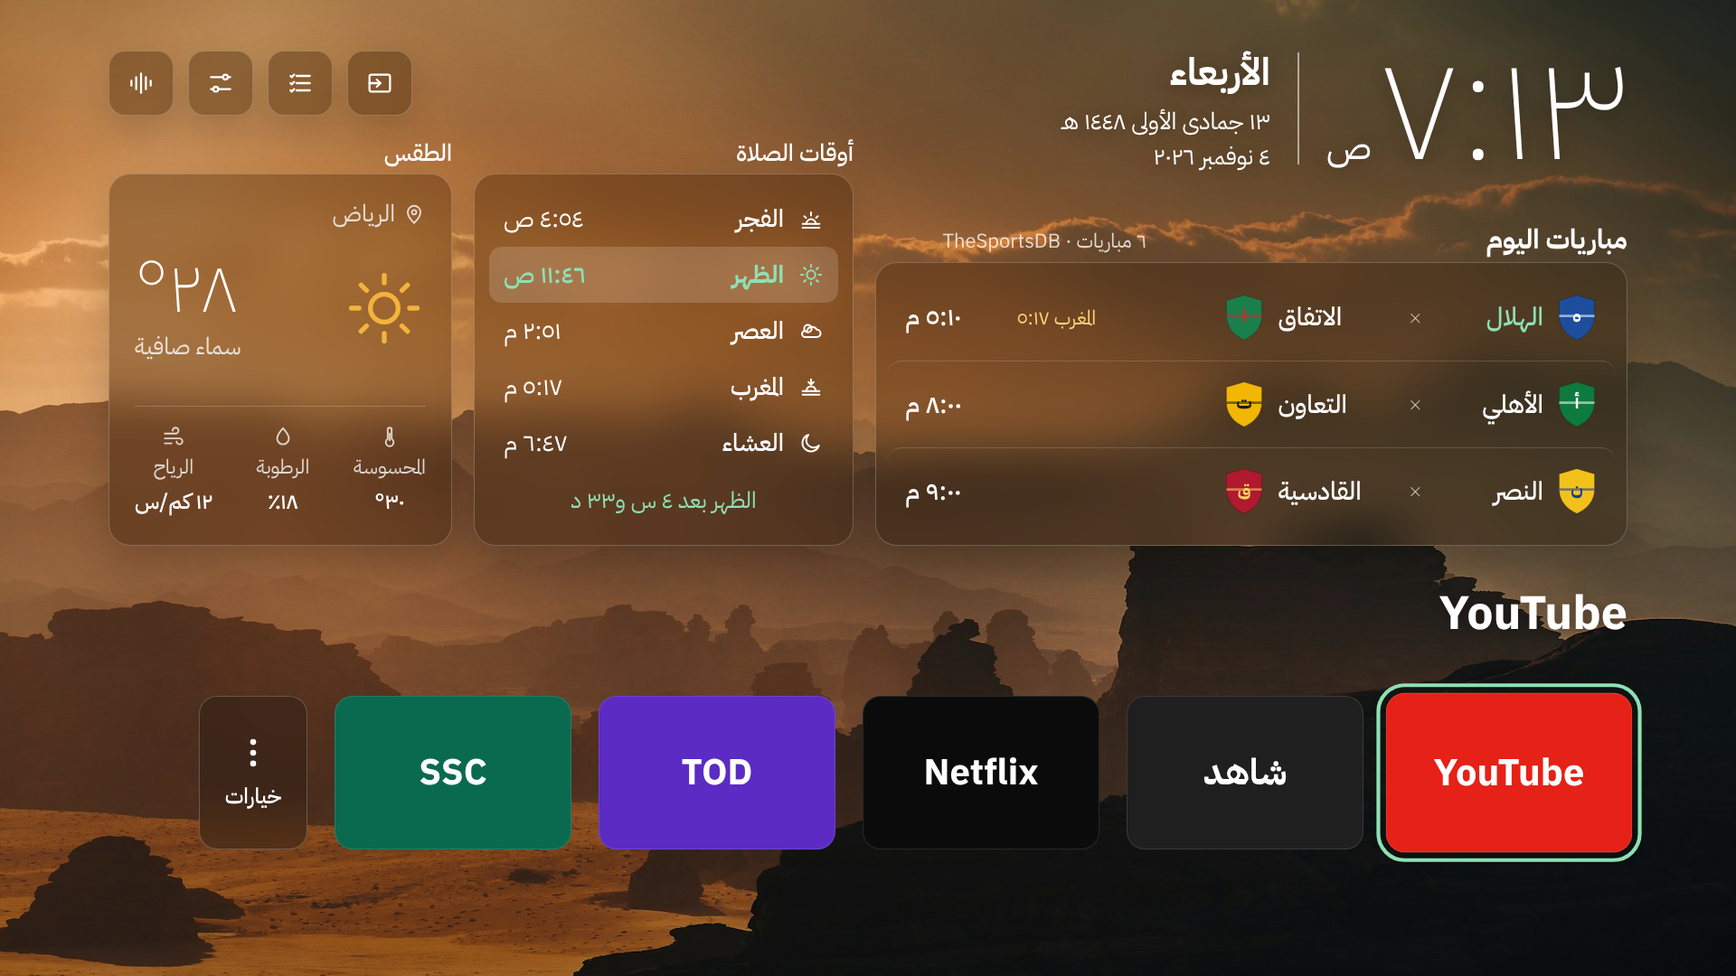
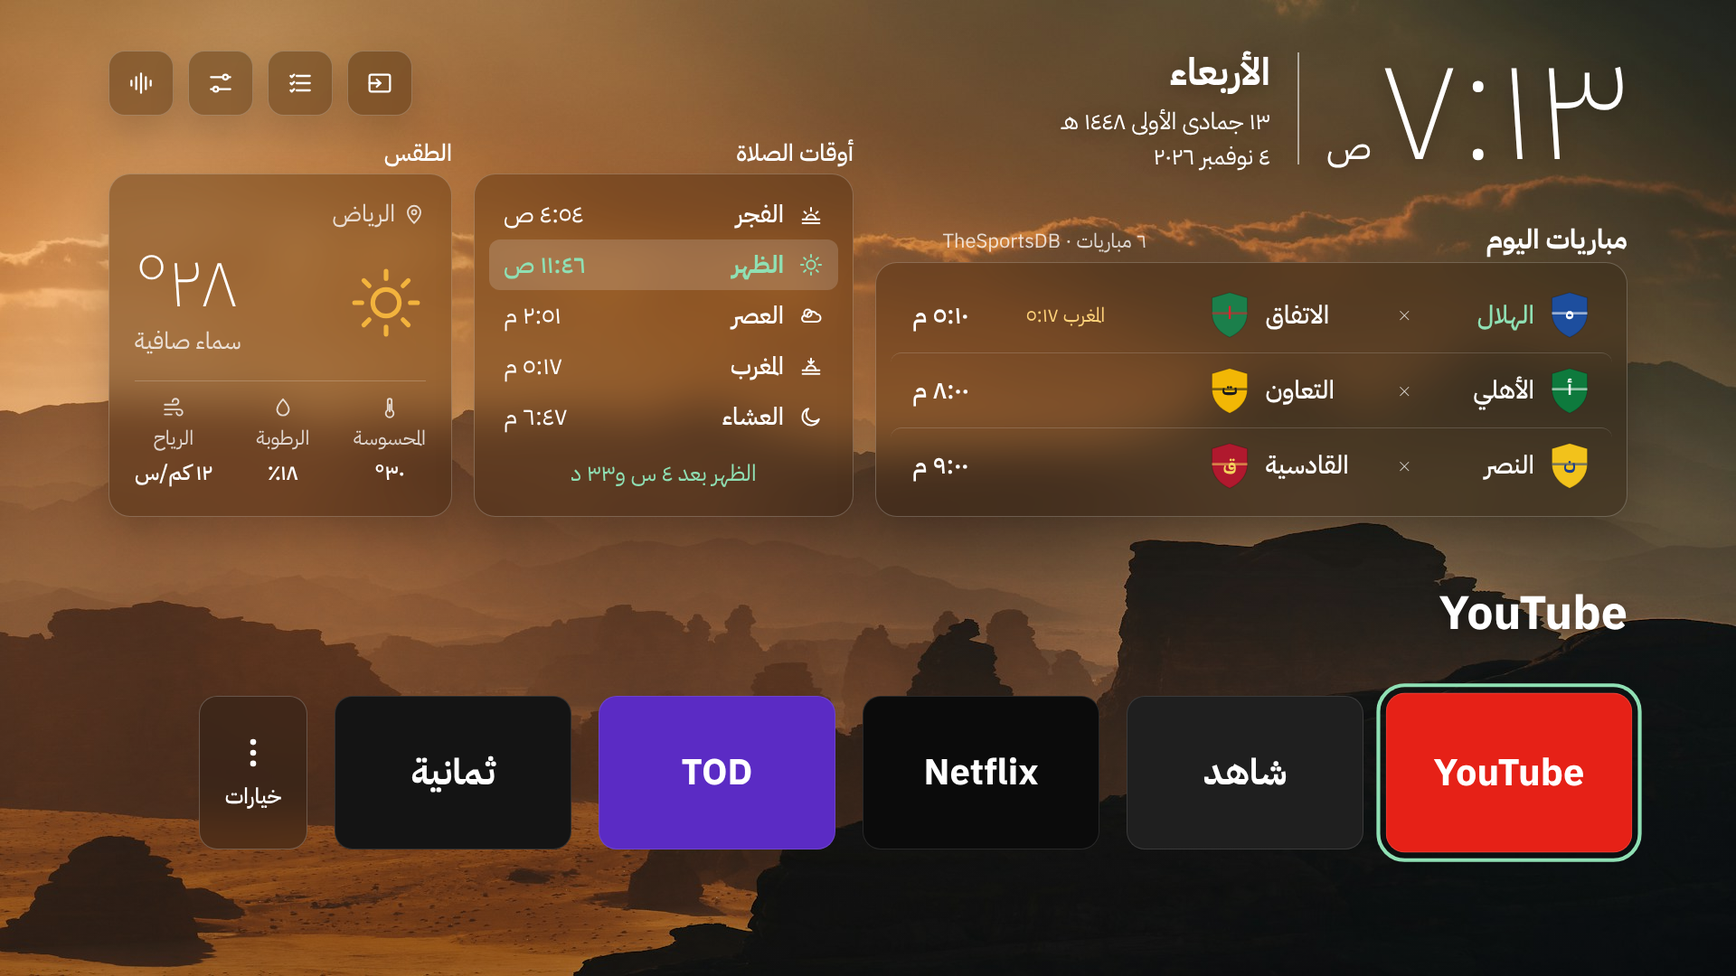
Proposals: spacing pass (text 16+ px inside boxes, gaps on an 8 px scale, room for titles), bar spec updated

diff --git a/notes/proposals/proto.html b/notes/proposals/proto.html
@@ -151,11 +151,11 @@ S.packs=()=>{
  const stars=Array.from({length:70},(_,i)=>`<circle cx="${(i*73)%400}" cy="${(i*37)%220}" r="${i%7?0.8:1.6}" fill="#fff" opacity="${.4+(i%5)/8}"/>`).join('');
  const sky=`<svg viewBox="0 0 400 220" style="position:absolute;inset:0;width:100%;height:100%" preserveAspectRatio="xMidYMax slice"><path d="M0 220V150h30v-30h20v30h25V95h18v-20h6v20h18v55h20v-40h30v40h22V60l8-14 8 14v90h24v-35h34v35h20v-60h26v60h30v-30h28v30h33v70z" fill="#5d6b78" opacity=".85"/></svg>`;
  const art=`<div style="position:absolute;inset:22px 70px;border:10px solid #b08a4a;box-shadow:inset 0 0 0 3px #6b4e22;background:linear-gradient(160deg,#6f8f6a,#d8c48a 50%,#9a6a3c);"></div>`;
- const w=(1680-2*30)/3,h=350;
+ const w=(1680-2*24)/3,h=350;
  const card=(p,i)=>{const fo=i==2,col=i%3,row=Math.floor(i/3);
-  return `<div class="abs" style="right:${120+col*(w+30)}px;top:${196+row*(h+26)}px;width:${w}px;height:${h}px;border-radius:22px;background:#fff;border:${fo?'3px solid var(--green)':'1.5px solid var(--line)'};overflow:hidden;${fo?'background:var(--tint)':''}">
-   <div style="position:relative;height:190px;background:${p.bg} center/cover">${p.space?`<svg viewBox="0 0 400 220" style="position:absolute;inset:0;width:100%;height:100%">${stars}<circle cx="300" cy="150" r="46" fill="#c46b3a"/><circle cx="300" cy="150" r="46" fill="url(#g)"/><defs><radialGradient id="g" cx=".35" cy=".35"><stop offset="0" stop-color="#ffd9a0" stop-opacity=".7"/><stop offset="1" stop-color="#000" stop-opacity=".45"/></radialGradient></defs></svg>`:''}${p.city?sky:''}${p.art?art:''}</div>
-   <div style="padding:18px 26px;display:flex;align-items:flex-start;gap:16px">
+  return `<div class="abs" style="right:${120+col*(w+24)}px;top:${196+row*(h+24)}px;width:${w}px;height:${h}px;border-radius:22px;background:#fff;border:${fo?'3px solid var(--green)':'1.5px solid var(--line)'};overflow:hidden;${fo?'background:var(--tint)':''}">
+   <div style="position:relative;height:176px;background:${p.bg} center/cover">${p.space?`<svg viewBox="0 0 400 220" style="position:absolute;inset:0;width:100%;height:100%">${stars}<circle cx="300" cy="150" r="46" fill="#c46b3a"/><circle cx="300" cy="150" r="46" fill="url(#g)"/><defs><radialGradient id="g" cx=".35" cy=".35"><stop offset="0" stop-color="#ffd9a0" stop-opacity=".7"/><stop offset="1" stop-color="#000" stop-opacity=".45"/></radialGradient></defs></svg>`:''}${p.city?sky:''}${p.art?art:''}</div>
+   <div style="padding:20px 32px 24px;display:flex;align-items:flex-start;gap:16px">
     ${p.st=='on'?tri():''}
     <div style="flex:1"><div style="font:34px TM">${p.n}</div><div style="font:24px TR;color:var(--sub);margin-top:2px">${p.c}</div><div style="font:22px TR;color:var(--mute)">${p.src}</div></div>
     ${p.st=='on'?`<div style="font:28px TM;color:var(--green)">مفعّل</div>`:`<div style="display:flex;align-items:center;gap:8px;font:28px TM;color:${fo?'var(--green)':'var(--sub)'}">${ic('down',30)}نزّل</div>`}
@@ -229,8 +229,8 @@ const H2=(light,o={})=>{const g=G(light);const W='color:'+g.ink;
   {h:'النصر',a:'القادسية',t:'٩:٠٠ م'},
   {h:'الاتحاد',a:'الشباب',t:'٩:٠٠ م'},
   {h:'ضمك',a:'الخليج',t:'٩:٣٠ م'}];
- const cw=300,gap=20;
- const card=(m,i)=>`<div style="${glass(g,`top:0;right:${i*(cw+gap)}px;width:${cw}px;height:212px;padding:16px 20px;display:flex;flex-direction:column;justify-content:space-between;${o.peek&&i==0?'border:3px solid #8FE0B4;background:rgba(28,22,18,.5)':''}`)}">
+ const cw=300,gap=24;
+ const card=(m,i)=>`<div style="${glass(g,`top:0;right:${i*(cw+gap)}px;width:${cw}px;height:212px;padding:16px 24px;display:flex;flex-direction:column;justify-content:space-between;${o.peek&&i==0?'border:3px solid #8FE0B4;background:rgba(28,22,18,.5)':''}`)}">
    <div style="display:flex;justify-content:space-between;font:22px TR;color:${g.sub}"><span>دوري روشن</span><span>الجولة ١٣</span></div>
    <div style="display:flex;align-items:center;justify-content:space-between">
     <div style="display:flex;flex-direction:column;align-items:center;gap:6px;width:110px">${crest(m.h,56)}<span style="font:24px TM;color:${m.mine?g.nx:g.ink};white-space:nowrap">${m.h}</span></div>
@@ -248,11 +248,11 @@ const H2=(light,o={})=>{const g=G(light);const W='color:'+g.ink;
  <div class="abs" style="left:120px;top:168px;width:400px;font:26px TM;${light?'color:#fff;text-shadow:0 1px 10px rgba(0,0,0,.3)':W}">الطقس</div>
  <div style="${glass(g,'left:120px;top:210px;width:400px;height:356px;padding:24px 28px')}">
   <div style="display:flex;align-items:center;gap:8px;font:26px TR;color:${g.sub}">${ic('pin',26)}الرياض</div>
-  <div style="display:flex;align-items:center;justify-content:space-between;margin-top:14px">${ic('noon',96,'color:#F2B33D;stroke-width:1.4')}<div style="text-align:left"><div style="font:84px TL;line-height:1;${W}">٢٨°</div><div style="font:26px TR;color:${g.sub};margin-top:6px">سماء صافية</div></div></div>
-  <div style="display:flex;justify-content:space-between;margin-top:32px;padding-top:18px;border-top:1px solid ${light?'var(--line)':'rgba(255,255,255,.2)'};font:22px TR;color:${g.sub}">
+  <div style="display:flex;align-items:center;justify-content:space-between;margin-top:14px">${ic('noon',80,'color:#F2B33D;stroke-width:1.4')}<div style="text-align:left"><div style="font:84px TL;line-height:1;${W}">٢٨°</div><div style="font:26px TR;color:${g.sub};margin-top:6px">سماء صافية</div></div></div>
+  <div style="display:flex;justify-content:space-between;margin-top:16px;padding-top:16px;border-top:1px solid ${light?'var(--line)':'rgba(255,255,255,.2)'};font:22px TR;color:${g.sub}">
    ${[['therm','المحسوسة','٣٠°'],['drop','الرطوبة','١٨٪'],['wind','الرياح','١٢ كم/س']].map(x=>`<div style="display:flex;flex-direction:column;align-items:center;gap:4px">${ic(x[0],26)}<span>${x[1]}</span><b style="font:24px TM;${W}">${x[2]}</b></div>`).join('')}</div></div>
  <div class="abs" style="left:544px;width:440px;top:168px;font:26px TM;${light?'color:#fff;text-shadow:0 1px 10px rgba(0,0,0,.3)':W}">أوقات الصلاة</div>
- <div style="${glass(g,'left:544px;top:210px;width:440px;height:356px;padding:16px 16px')}">
+ <div style="${glass(g,'left:544px;top:210px;width:440px;height:356px;padding:16px')}">
   ${prs.map((p,i)=>`<div style="display:flex;align-items:center;gap:16px;height:54px;padding:0 16px;border-radius:14px;${i==1?`background:${g.band};${light?'box-shadow:inset 0 0 0 2px var(--green);':''}`:''}color:${i==1?g.nx:g.ink}">${ic(p[0],28)}<span style="flex:1;font:27px ${i==1?'TD':'TM'}">${p[1]}</span><span style="font:27px ${i==1?'TM':'TR'}">${p[2]}</span></div>`).join('')}
   <div style="text-align:center;font:25px TR;color:${g.nx};margin-top:12px">الظهر بعد ٤ س و٣٣ د</div></div>
  <div class="abs" style="right:120px;top:${o.peek?640:600}px;font:32px TD;${light?'color:var(--ink)':W}">مباريات اليوم</div>
@@ -282,22 +282,22 @@ const H3=(focus,bar)=>{const g=G(false);const W='color:#fff';
   <div><div style="font:42px TD">الأربعاء</div><div style="font:26px TR;margin-top:4px">١٣ جمادى الأولى ١٤٤٨ هـ</div><div style="font:26px TR">٤ نوفمبر ٢٠٢٦</div></div></div>
  <div class="abs" style="left:120px;top:56px;display:flex;gap:16px;direction:ltr">${['input','tasks','control','listen'].reverse().map(k=>`<div style="${glass(g,'position:relative;width:72px;height:72px;border-radius:18px;display:flex;align-items:center;justify-content:center')}">${ic(k,32,'color:#fff')}</div>`).join('')}</div>
  <div class="abs" style="left:120px;top:150px;width:380px;font:26px TM;${W}">الطقس</div>
- <div style="${glass(g,'left:120px;top:192px;width:380px;height:412px;padding:24px 28px')}">
+ <div style="${glass(g,'left:120px;top:192px;width:380px;height:380px;padding:24px 28px')}">
   <div style="display:flex;align-items:center;gap:8px;font:26px TR;color:${g.sub}">${ic('pin',26)}الرياض</div>
-  <div style="display:flex;align-items:center;justify-content:space-between;margin-top:22px">${ic('noon',92,'color:#F2B33D;stroke-width:1.4')}<div style="text-align:left"><div style="font:80px TL;line-height:1;${W}">٢٨°</div><div style="font:26px TR;color:${g.sub};margin-top:6px">سماء صافية</div></div></div>
-  <div style="display:flex;justify-content:space-between;margin-top:46px;padding-top:20px;border-top:1px solid rgba(255,255,255,.2);font:22px TR;color:${g.sub}">
+  <div style="display:flex;align-items:center;justify-content:space-between;margin-top:16px">${ic('noon',88,'color:#F2B33D;stroke-width:1.4')}<div style="text-align:left"><div style="font:80px TL;line-height:1;${W}">٢٨°</div><div style="font:26px TR;color:${g.sub};margin-top:6px">سماء صافية</div></div></div>
+  <div style="display:flex;justify-content:space-between;margin-top:24px;padding-top:16px;border-top:1px solid rgba(255,255,255,.2);font:22px TR;color:${g.sub}">
    ${[['therm','المحسوسة','٣٠°'],['drop','الرطوبة','١٨٪'],['wind','الرياح','١٢ كم/س']].map(x=>`<div style="display:flex;flex-direction:column;align-items:center;gap:4px">${ic(x[0],26)}<span>${x[1]}</span><b style="font:24px TM;${W}">${x[2]}</b></div>`).join('')}</div></div>
  <div class="abs" style="left:524px;width:420px;top:150px;font:26px TM;${W}">أوقات الصلاة</div>
- <div style="${glass(g,'left:524px;top:192px;width:420px;height:412px;padding:18px 16px')}">
-  ${prs.map((p,i)=>`<div style="display:flex;align-items:center;gap:16px;height:62px;padding:0 16px;border-radius:14px;${i==1?`background:${g.band};`:''}color:${i==1?g.nx:'#fff'}">${ic(p[0],28)}<span style="flex:1;font:27px ${i==1?'TD':'TM'}">${p[1]}</span><span style="font:27px ${i==1?'TM':'TR'}">${p[2]}</span></div>`).join('')}
-  <div style="text-align:center;font:25px TR;color:${g.nx};margin-top:14px">الظهر بعد ٤ س و٣٣ د</div></div>
+ <div style="${glass(g,'left:524px;top:192px;width:420px;height:380px;padding:16px')}">
+  ${prs.map((p,i)=>`<div style="display:flex;align-items:center;gap:16px;height:56px;padding:0 16px;border-radius:12px;${i==1?`background:${g.band};`:''}color:${i==1?g.nx:'#fff'}">${ic(p[0],28)}<span style="flex:1;font:27px ${i==1?'TD':'TM'}">${p[1]}</span><span style="font:27px ${i==1?'TM':'TR'}">${p[2]}</span></div>`).join('')}
+  <div style="text-align:center;font:25px TR;color:${g.nx};margin-top:16px">الظهر بعد ٤ س و٣٣ د</div></div>
  <div class="abs" style="right:120px;top:242px;font:30px TD;${W}">مباريات اليوم</div>
  <div class="abs" style="left:968px;width:300px;top:250px;font:22px TR;color:${g.sub}">٦ مباريات · TheSportsDB</div>
- <div style="${glass(g,'right:120px;top:290px;width:832px;height:314px;padding:12px')}">
-  ${games.map((m,i)=>`<div style="display:flex;align-items:center;gap:14px;height:96px;padding:0 20px;border-radius:16px;${i==0&&focus=='w'?'background:rgba(255,255,255,.1);box-shadow:inset 0 0 0 3px #8FE0B4;':''}${i?'border-top:1px solid rgba(255,255,255,.16);':''}">
+ <div style="${glass(g,'right:120px;top:290px;width:832px;height:282px;padding:16px')}">
+  ${games.map((m,i)=>`<div style="display:flex;align-items:center;gap:16px;height:83px;padding:0 24px;border-radius:12px;${i==0&&focus=='w'?'background:rgba(255,255,255,.1);box-shadow:inset 0 0 0 3px #8FE0B4;':''}${i?'border-top:1px solid rgba(255,255,255,.16);':''}">
    ${crest(m.h,46)}<span style="width:120px;font:28px TM;color:${m.mine?g.nx:'#fff'}">${m.h}</span><span style="font:26px TL;color:${g.sub}">×</span><span style="width:130px;font:28px TM;${W};text-align:left">${m.a}</span>${crest(m.a,46)}
    <span style="flex:1;text-align:left;font:22px TR;color:#FFD27A">${m.n||''}</span><span style="width:110px;text-align:left;font:28px TM;${W}">${m.t}</span></div>`).join('')}</div>
- ${bar?BAR(804,focus=='a'?0:-1,false):SHELF(770,focus=='a'?0:-1)}`;};
+ ${bar?BAR(808,focus=='a'?0:-1,false):SHELF(770,focus=='a'?0:-1)}`;};
 S.favA=()=>H3('w');
 S.favBw=()=>H2(false,{peek:1});
 S.favBa=()=>H3('a');
@@ -309,15 +309,15 @@ const BAR=(trayTop,fo,light)=>{
  const tray=light?'background:rgba(255,255,255,.72);border:1px solid rgba(255,255,255,.85);box-shadow:0 20px 50px rgba(40,36,24,.12),inset 0 1px 0 #fff'
    :'background:rgba(255,255,255,.14);border:1px solid rgba(255,255,255,.28);box-shadow:0 20px 50px rgba(0,0,0,.18),inset 0 1px 0 rgba(255,255,255,.35)';
  const ring=light?'#1B8354':'#8FE0B4';
- const x=i=>1800-28-296-i*(296+36);   // tile i's left edge, RTL: the first app on the right
- return `${fo>=0?`<div class="abs" style="left:${x(fo)-60}px;width:416px;top:${trayTop-52}px;text-align:center;font:30px TM;color:${light?'var(--ink)':'#fff'};${light?'':'text-shadow:0 2px 12px rgba(0,0,0,.35)'}">${FAV[fo][0]}</div>`:''}
- <div class="abs" style="left:120px;width:1680px;top:${trayTop}px;height:222px;border-radius:32px;backdrop-filter:blur(30px) saturate(1.3);${tray}"></div>
- ${FAV.map((a,i)=>`<div class="abs" style="left:${x(i)}px;top:${trayTop+28}px;width:296px;height:166px;border-radius:18px;background:${a[1]};display:flex;align-items:center;justify-content:center;font:38px TD;color:#fff;overflow:hidden;
+ const x=i=>1800-32-304-i*(304+24);   // tile i's left edge, RTL: the first app on the right
+ return `${fo>=0?`<div class="abs" style="left:${x(fo)-56}px;width:416px;top:${trayTop-56}px;text-align:center;font:30px TM;color:${light?'var(--ink)':'#fff'};${light?'':'text-shadow:0 2px 12px rgba(0,0,0,.35)'}">${FAV[fo][0]}</div>`:''}
+ <div class="abs" style="left:120px;width:1680px;top:${trayTop}px;height:218px;border-radius:32px;backdrop-filter:blur(30px) saturate(1.3);${tray}"></div>
+ ${FAV.map((a,i)=>`<div class="abs" style="left:${x(i)}px;top:${trayTop+24}px;width:304px;height:170px;border-radius:16px;background:${a[1]};display:flex;align-items:center;justify-content:center;font:38px TD;color:#fff;overflow:hidden;
    ${i==fo?`transform:translateY(-6px) scale(1.08);box-shadow:0 0 0 3px ${ring},0 18px 36px rgba(0,0,0,${light?.22:.4});z-index:2`:'box-shadow:0 2px 6px rgba(0,0,0,.12)'}">${a[0]}
    ${i==fo?'<div style="position:absolute;inset:0;background:linear-gradient(125deg,rgba(255,255,255,.26) 0,rgba(255,255,255,.08) 38%,rgba(255,255,255,0) 52%)"></div>':''}</div>`).join('')}`;};
 S.favbar=()=>`<div class="abs" style="left:0;right:0;top:0;height:540px;background:url(../../photos/-RlktmDy3Ec.jpg) center/cover"></div>
  <div class="abs" style="left:0;right:0;top:540px;height:540px;background:var(--paper)"></div>
- ${BAR(220,0,false)}${BAR(760,2,true)}`;
+ ${BAR(232,0,false)}${BAR(772,2,true)}`;
 S.final=()=>H3('a',1);
 
 // ---- broadcast: a small text mark per game (a placeholder, not the channel's real logo)
@@ -327,8 +327,8 @@ const TV=(n,light)=>`<span style="display:inline-flex;align-items:center;height:
 S.finalw=()=>{const g=G(false);
  const games=[{h:'الهلال',a:'الاتفاق',t:'٢ - ١',live:'الدقيقة ٦٧',tv:'ثمانية',mine:1},{h:'الأهلي',a:'التعاون',t:'٨:٠٠ م',tv:'ثمانية'},
   {h:'الفتح',a:'الرياض',t:'٨:٠٠ م',tv:'ثمانية'},{h:'النصر',a:'القادسية',t:'٩:٠٠ م',tv:'ثمانية'},{h:'الاتحاد',a:'الشباب',t:'٩:٠٠ م',tv:'ثمانية'},{h:'ضمك',a:'الخليج',t:'٩:٣٠ م',tv:'ثمانية'}];
- const cw=300,gap=20;
- const card=(m,i)=>`<div style="${glass(g,`top:0;right:${i*(cw+gap)}px;width:${cw}px;height:180px;padding:12px 18px;display:flex;flex-direction:column;justify-content:space-between;${i==0?'border:3px solid #8FE0B4;background:rgba(28,22,18,.5)':''}`)}">
+ const cw=300,gap=24;
+ const card=(m,i)=>`<div style="${glass(g,`top:0;right:${i*(cw+gap)}px;width:${cw}px;height:184px;padding:16px 24px;display:flex;flex-direction:column;justify-content:space-between;${i==0?'border:3px solid #8FE0B4;background:rgba(28,22,18,.5)':''}`)}">
    <div style="display:flex;justify-content:space-between;align-items:center;font:21px TR;color:${g.sub}"><span>دوري روشن · ١٣</span>${TV(m.tv)}</div>
    <div style="display:flex;align-items:center;justify-content:space-between">
     <div style="display:flex;flex-direction:column;align-items:center;gap:2px;width:104px">${crest(m.h,40)}<span style="font:23px TM;color:${m.mine?g.nx:'#fff'};white-space:nowrap">${m.h}</span></div>
@@ -337,12 +337,12 @@ S.finalw=()=>{const g=G(false);
    <div style="text-align:center;font:25px TM;color:${m.live?g.nx:'#fff'}">${m.live||m.t}</div></div>`;
  let h=H3('w',1);
  h=h.replace(/<div class="abs" style="right:120px;top:242px[\s\S]*?(?=<div class="abs" style="left:120px;width:1680px)/,'');   // the list leaves; the row takes its place
- h=h.replace('top:804px;height:222px','top:844px;height:222px').replace(/top:832px;width:296px/g,'top:872px;width:296px');
- return h+`<div class="abs" style="right:120px;top:612px;font:30px TD;color:#fff">مباريات اليوم</div>
-  <div class="abs" style="left:120px;top:620px;font:22px TR;color:${g.sub}">٦ مباريات · كلها على ثمانية</div>
+ h=h.replace('top:808px;height:218px','top:848px;height:218px').replace(/top:832px;width:304px/g,'top:872px;width:304px');
+ return h+`<div class="abs" style="right:120px;top:596px;font:30px TD;color:#fff">مباريات اليوم</div>
+  <div class="abs" style="left:120px;top:604px;font:22px TR;color:${g.sub}">٦ مباريات · كلها على ثمانية</div>
   <div class="abs" style="right:120px;left:0;top:626px;height:0"></div>
   <div class="abs" style="right:120px;left:0;top:${626+0}px;height:0"></div>
-  <div class="abs" style="right:120px;left:0;top:654px;height:182px;overflow:hidden;-webkit-mask-image:linear-gradient(90deg,transparent 40px,#000 200px)">${games.map(card).join('')}</div>`;};
+  <div class="abs" style="right:120px;left:0;top:640px;height:184px;overflow:hidden;-webkit-mask-image:linear-gradient(90deg,transparent 40px,#000 200px)">${games.map(card).join('')}</div>`;};
 
 // 2. «المباريات»: a page of its own (light look). Days across the top, leagues down the side, the followed team first.
 const ROW=(m,fo)=>`<div style="display:flex;align-items:center;gap:18px;height:92px;padding:0 26px;${fo?'background:var(--tint);outline:3px solid var(--green);outline-offset:-3px;border-radius:16px;':'border-top:1.5px solid var(--line);'}">

diff --git a/docs/PROPOSALS-NOV2.md b/docs/PROPOSALS-NOV2.md
@@ -65,26 +65,27 @@ tray and never slides, so B is out, and the «خيارات» tile is gone. The f
 
 | Part | Value |
 |---|---|
-| Tray | x 120 to 1800 (1680 wide), 222 high, radius 32. Its bottom is 54 px above the screen's (the 5 % safe area), so its top is at y 804. The same place on every theme and layout. |
+| Tray | x 120 to 1800 (1680 wide), 218 high, radius 32. Its bottom is 54 px above the screen's (the 5 % safe area), so its top is at y 808. The same place on every theme and layout. |
 | Tray, over a photo (dark look) | fill `rgba(255,255,255,.14)`, background blur 30 px with saturate 1.3 (on a TV: the home photo blurred once, as the glass look already does, never a live blur), 1 px border `rgba(255,255,255,.28)`, a 1 px inner top highlight `rgba(255,255,255,.35)`, shadow `0 20px 50px rgba(0,0,0,.18)` |
 | Tray, light look | fill `rgba(255,255,255,.72)`, the same blur, 1 px border `rgba(255,255,255,.85)`, a white 1 px inner top highlight, shadow `0 20px 50px rgba(40,36,24,.12)` |
-| Tiles | 296×166 (the app's 16:9 banner), radius 18, 36 apart, 28 from the tray's edges, vertically centred. Five show; the first app is on the right (RTL). More apps scroll inside the tray, and the row never leaves it. |
+| Tiles | 304×170 (the app's 16:9 banner), radius 16, 24 apart, 32 from the tray's sides and 24 from its top and bottom (one 8 px scale). Five show; the first app is on the right (RTL). More apps scroll inside the tray, and the row never leaves it. |
 | Resting tile | no movement and no dimming, shadow `0 2px 6px rgba(0,0,0,.12)` |
-| Focused tile | `translateY(-6px) scale(1.08)` from the centre (about 320×179), above its neighbours. Ring 3 px: DGA green `#1B8354` on the light look, `#8FE0B4` over a photo. Shadow `0 18px 36px rgba(0,0,0,.40)` (`.22` on light). Sheen: a 125° white gradient over the tile, 26 % at the corner, 8 % at 38 %, gone by 52 %. It stays 14 px inside the tray's edges, so the focus never leaves the box. |
+| Focused tile | `translateY(-6px) scale(1.08)` from the centre (about 328×184), above its neighbours. Ring 3 px: DGA green `#1B8354` on the light look, `#8FE0B4` over a photo. Shadow `0 18px 36px rgba(0,0,0,.40)` (`.22` on light). Sheen: a 125° white gradient over the tile, 26 % at the corner, 8 % at 38 %, gone by 52 %. With the ring it stays at least 8 px inside the tray's edges, so the focus never leaves the box. |
 | Motion | 150 ms ease-out for the lift, scale, shadow and sheen when focus arrives or leaves. Nothing else moves. |
-| App name | above the focused tile, centred on it, 30 px medium, white with a soft shadow over a photo, ink `#1B1F1D` on light. Its baseline is about 18 px above the tray's top edge (the text box is at y = tray top − 52). It follows the focus, and is hidden when focus is not in the bar. |
+| App name | above the focused tile, centred on it, 30 px medium, white with a soft shadow over a photo, ink `#1B1F1D` on light. Its text box is at y = tray top − 56, so its baseline sits about 16 px above the tray. It follows the focus, and is hidden when focus is not in the bar. |
 | No «خيارات» tile | the app options open from a long OK, as today, until a visible way is chosen that keeps the bar unchanged |
-| Widgets above | everything else on the home must end by y 740, so the name has room above the tray |
+| Widgets above | everything else on the home must end by y 728, so the name has room above the tray |
+| Spacing everywhere (the owner's rule) | text at least 16 px inside any box (24 on big cards), gaps between cards on one 8 px scale (24 between widgets and between match cards), a section title 16–24 px above its box |
 
 **The tray may move down a little, and only for a widget** (`notes/proposals/football-home-final-widgetfocus.png`).
 - When focus enters the matches widget, the widget opens into a row of game cards that scrolls right to left with ◀ ▶.
-  To make room, the tray moves down 40 px in 250 ms with ease-in-out. It looks exactly the same, and its tiles move with it.
+  To make room, the tray moves down 40 px, from y 808 to 848, in 250 ms with ease-in-out. It looks exactly the same, and its tiles move with it.
 - The app name above the tray is hidden while focus is outside the bar.
-- When focus comes back down to the apps, the tray returns to y 804 in the same 250 ms before the tile lifts, and the
+- When focus comes back down to the apps, the tray returns to y 808 in the same 250 ms before the tile lifts, and the
   widget closes back to its three lines.
 - Nothing moves while focus stays on the apps, or while it moves between the other widgets (weather and prayers need no
   extra room).
-- At 844 the tray's bottom is at 1066, still on the screen. 40 px is the most it ever moves.
+- At 848 the tray's bottom is at 1066, still on the screen. 40 px is the most it ever moves.
 
 ### The «المباريات» page
 
